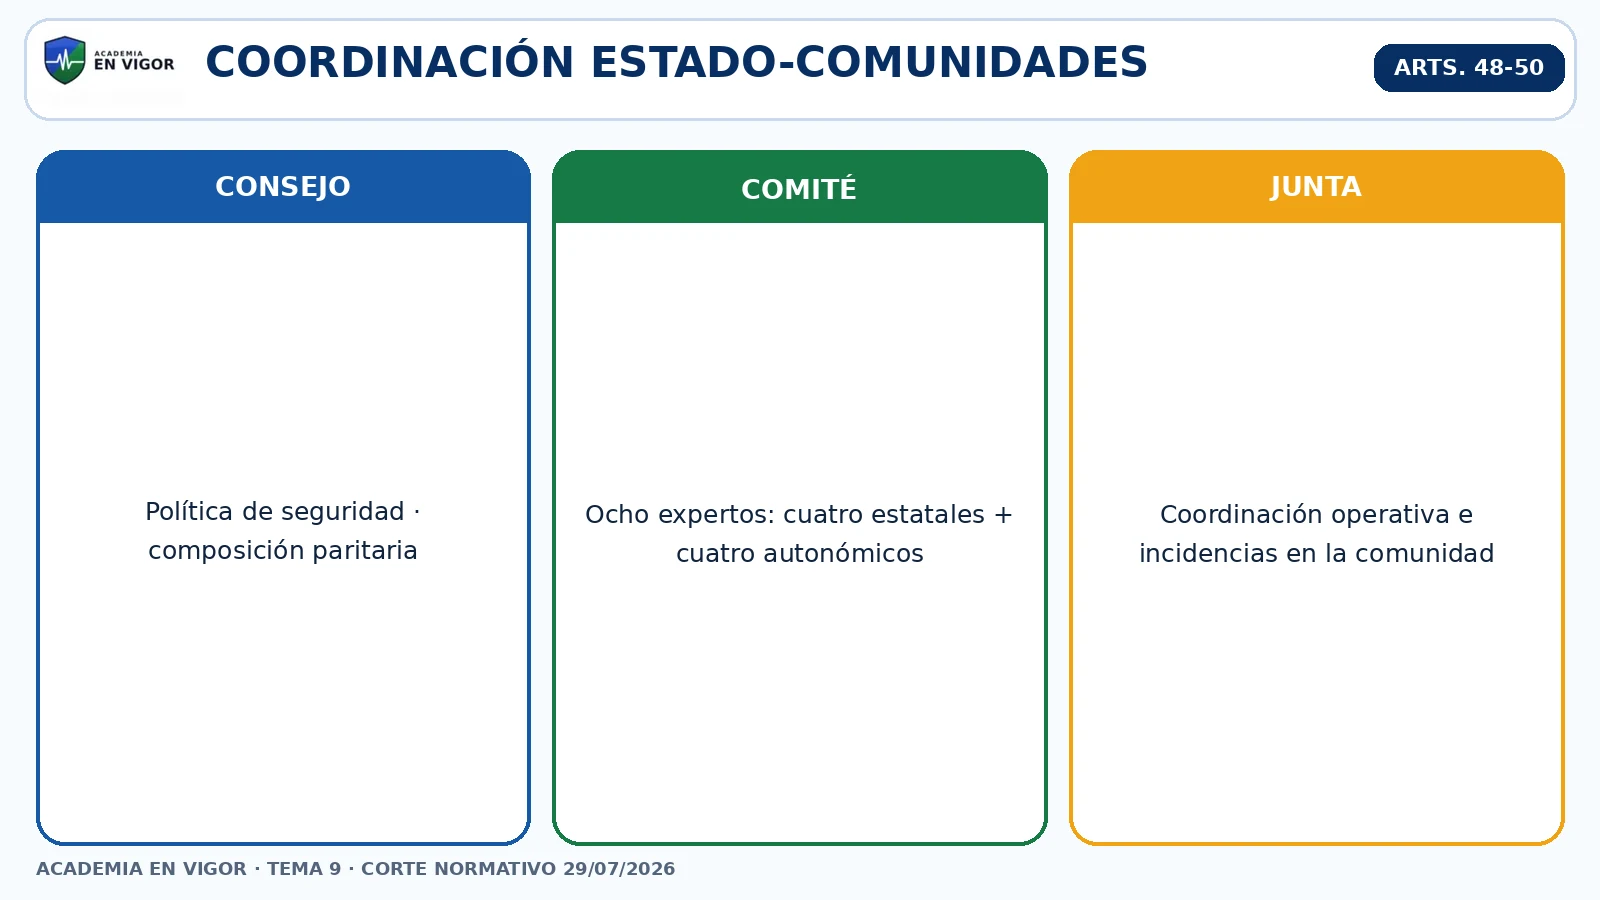
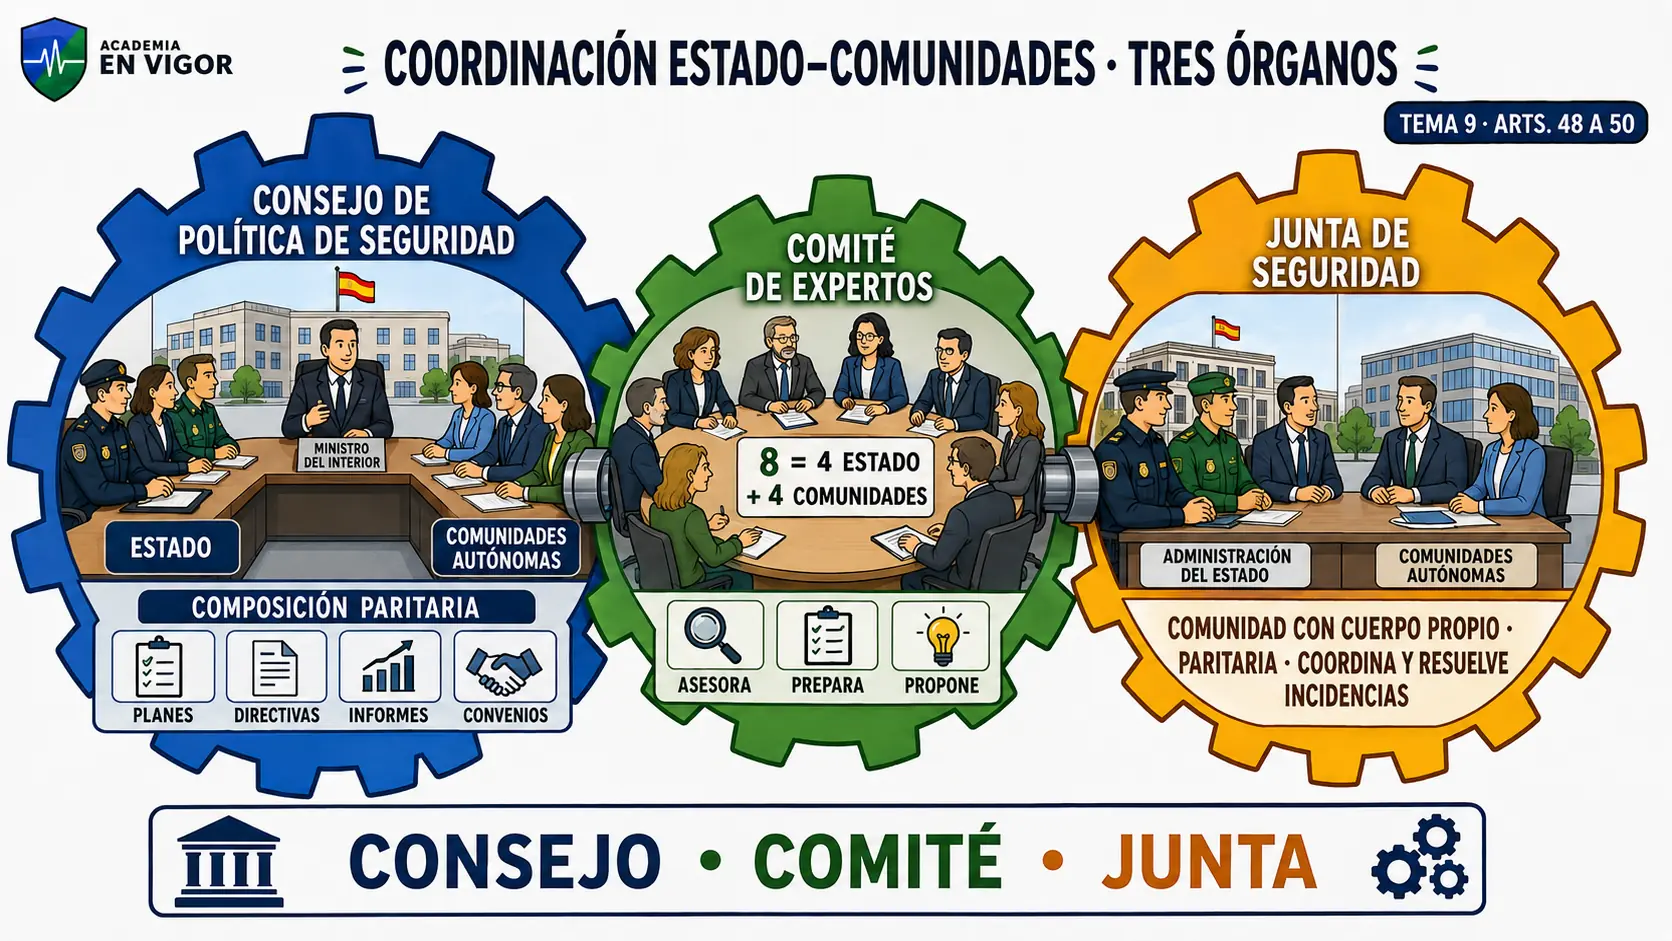
Add files via upload

diff --git a/assets/policia-nacional/tema-09/plan-visual.md b/assets/policia-nacional/tema-09/plan-visual.md
@@ -1,10 +1,52 @@
 # Plan visual · Tema 9
 
-Colección de 17 infografías deterministas para reglas, cifras, competencias y
-órganos, más 6 ilustraciones didácticas para analogías difíciles. Todos los
-recursos tienen PNG maestro externo y WEBP integrado.
+Colección de 17 infografías y 6 ilustraciones didácticas. El contenido se
+mantiene exacto, pero la versión visual 1.0 queda rechazada por monotonía:
+las 17 infografías repetían una plantilla de columnas con demasiado espacio
+vacío. La versión 1.1 aplica dirección de arte individual y revisión conjunta.
 
-- Rotulación jurídica controlada.
-- Marca aprobada recuperada de un recurso validado del Tema 7.
-- Paleta común azul, verde y ámbar.
-- Sin insignias oficiales recreadas.
+## Dirección común
+
+- Infografías normalmente en 16:9; ilustraciones en la proporción que mejor
+  sirva a la escena.
+- Marca aprobada de Academia En Vigor.
+- Paleta común azul marino, azul policial, verde y ámbar, con acentos rojos.
+- Rotulación breve, exacta y legible.
+- Personajes y edificios genéricos; sin recrear insignias oficiales.
+- PNG maestro externo y WEBP optimizado como único formato integrado.
+- Ninguna caja de texto puede constituir por sí sola una infografía.
+
+## Matriz de dirección visual
+
+| Recurso | Función | Ancla visual | Familia compositiva | Densidad | Diferenciador |
+|---|---|---|---|---|---|
+| `t09-01-mapa-sistema-seguridad` | Presentar el recorrido completo | Grupo de cuerpos, mapa de España y edificios | Mapa radial | Baja | Seis rutas alrededor de una escena central |
+| `t09-02-seis-principios-actuacion` | Memorizar el artículo 5 | Agente ante seis puertas simbólicas | Recorrido mnemotécnico | Media | Cada principio se convierte en una acción |
+| `t09-03-secuencia-detencion` | Ordenar la actuación con detenidos | Secuencia protagonizada por agente y detenido | Storyboard cronológico | Media | Cinco viñetas de una misma intervención |
+| `t09-04-estatuto-comun` | Diferenciar cinco reglas estatutarias | Academia y carrera profesional policial | Corte por estancias | Media | Cinco escenarios, no cinco columnas |
+| `t09-05-pn-gc-naturaleza` | Comparar naturaleza y dependencia | Dos agentes y dos territorios | Escena partida | Baja | Ciudad frente a entorno rural |
+| `t09-06-articulo-11-territorio` | Unir funciones con ámbito territorial | Mapa de España operativo | Mapa territorial | Media | Capas de capitales, provincias y resto |
+| `t09-07-competencias-pn-gc` | Repartir materias del artículo 12 | Dos mesas operativas con objetos | Comparación por herramientas | Media | Los objetos representan competencias |
+| `t09-08-cambio-normativo-consejo` | Marcar derogación y norma vigente | Puente temporal entre dos leyes | Antes-ahora | Baja | La norma derogada queda visualmente cerrada |
+| `t09-09-representatividad-sindical` | Explicar las tres vías | Urnas y tres puertas de acceso | Árbol de decisión | Media | Rutas electorales con umbrales visibles |
+| `t09-10-consejo-policia` | Fijar naturaleza, composición y funciones | Mesa paritaria del Consejo | Escena institucional | Media | Representación equilibrada alrededor de la mesa |
+| `t09-11-policia-judicial-dos-niveles` | Separar función general y unidades orgánicas | Edificio policial de dos plantas | Corte por niveles | Media | Base general y planta especializada |
+| `t09-12-garantias-investigacion` | Memorizar garantías | Investigador protegido por un escudo | Escudo de garantías | Media | Las reglas forman una protección visual |
+| `t09-13-tres-vias-autonomicas` | Comparar modos de disponer de policía | Mapa autonómico con tres caminos | Rutas territoriales | Baja | Tres destinos claramente distintos |
+| `t09-14-tres-columnas-autonomicas` | Distinguir funciones propias, colaborativas y simultáneas | Tres escenas operativas | Tríptico narrativo | Media | Una actuación real en cada ámbito |
+| `t09-15-tres-organos-coordinacion` | Fijar Consejo, Comité y Junta | Tres engranajes institucionales | Sistema mecánico | Media | Cada órgano mueve un nivel distinto |
+| `t09-16-territorio-local` | Explicar regla y excepciones territoriales | Plano de una ciudad con perímetro | Mapa urbano | Baja | Dos salidas justificadas fuera del municipio |
+| `t09-17-funciones-policia-local` | Recordar las funciones del artículo 53 | Plaza urbana con múltiples intervenciones | Escena panorámica | Media | Ocho funciones ocurren en una misma ciudad |
+| `t09-il-01-triple-filtro-fuerza` | Visualizar congruencia, oportunidad y proporcionalidad | Tres filtros atravesados por una decisión | Metáfora de filtros | Baja | La fuerza solo avanza tras superar los tres |
+| `t09-il-02-agente-no-autoridad` | Recordar regla y protección excepcional | Agente, escudo y agresión grave | Escena de excepción | Baja | Contraste visual entre regla y excepción |
+| `t09-il-03-reloj-sindical` | Memorizar tiempos de actividad sindical | Gran reloj conectado a calendario | Metáfora temporal | Baja | Tiempo sindical convertido en mecanismo |
+| `t09-il-04-balanza-paritaria` | Comprender la paridad del Consejo | Mesa y balanza equilibrada | Metáfora de equilibrio | Baja | Dos representaciones con el mismo peso |
+| `t09-il-05-doble-dependencia` | Separar dependencia orgánica y funcional | Investigador entre Interior y juez o fiscal | Escena de investigación | Baja | Interior administra; el asunto recibe dirección funcional |
+| `t09-il-06-enchufe-doble-adscritas` | Recordar unidad completa y dos dependencias | Unidad conectada a dos circuitos | Metáfora eléctrica | Baja | Un equipo completo, dos conexiones diferentes |
+
+## Puerta de revisión
+
+Revisar una hoja de contacto antes de integrar. Rechazar cualquier pieza sin
+foco, con grandes zonas vacías injustificadas, con texto como único contenido
+o que repita la composición de otra. La colección debe conservar al menos
+cuatro familias compositivas y no superar dos piezas consecutivas de la misma.
